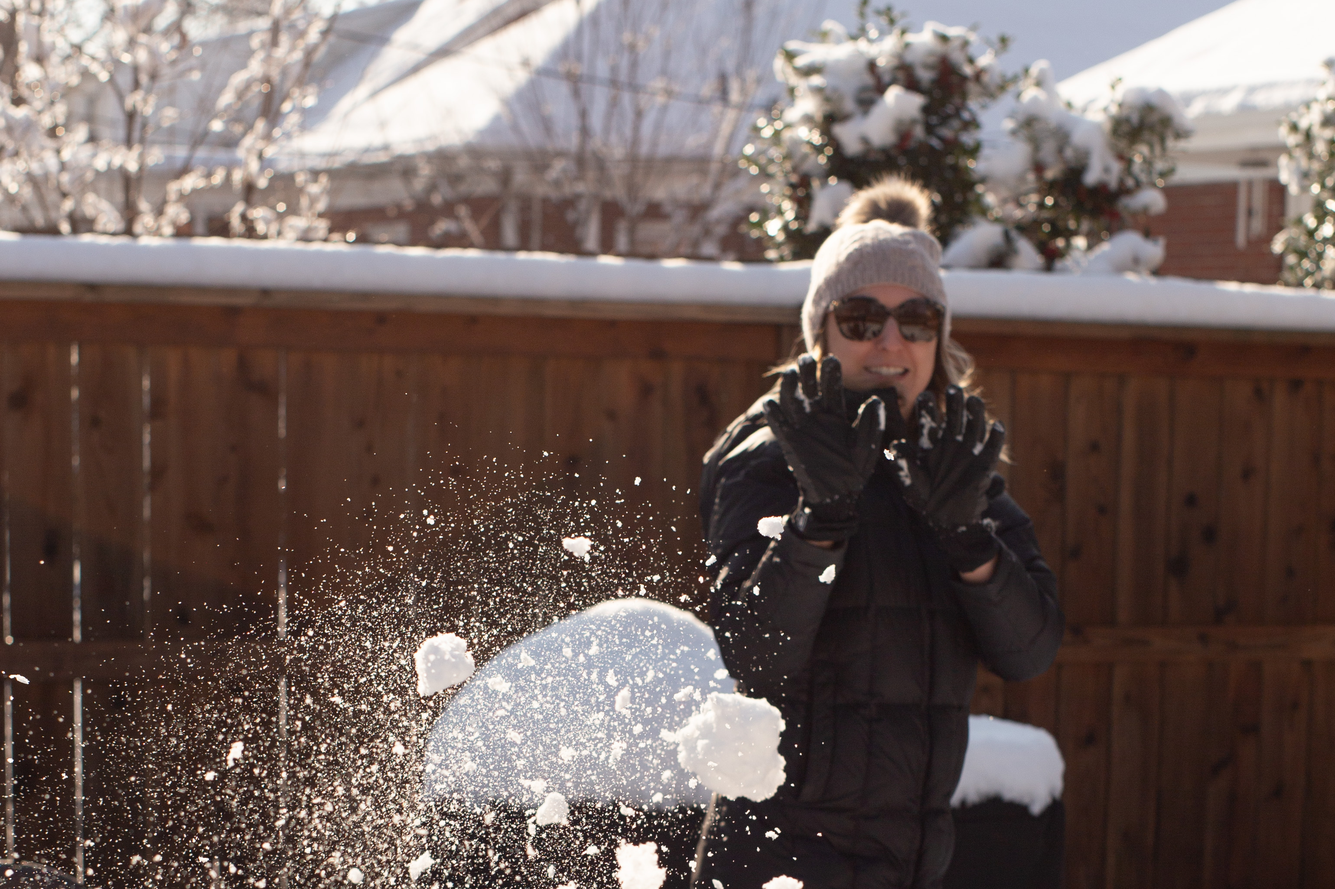
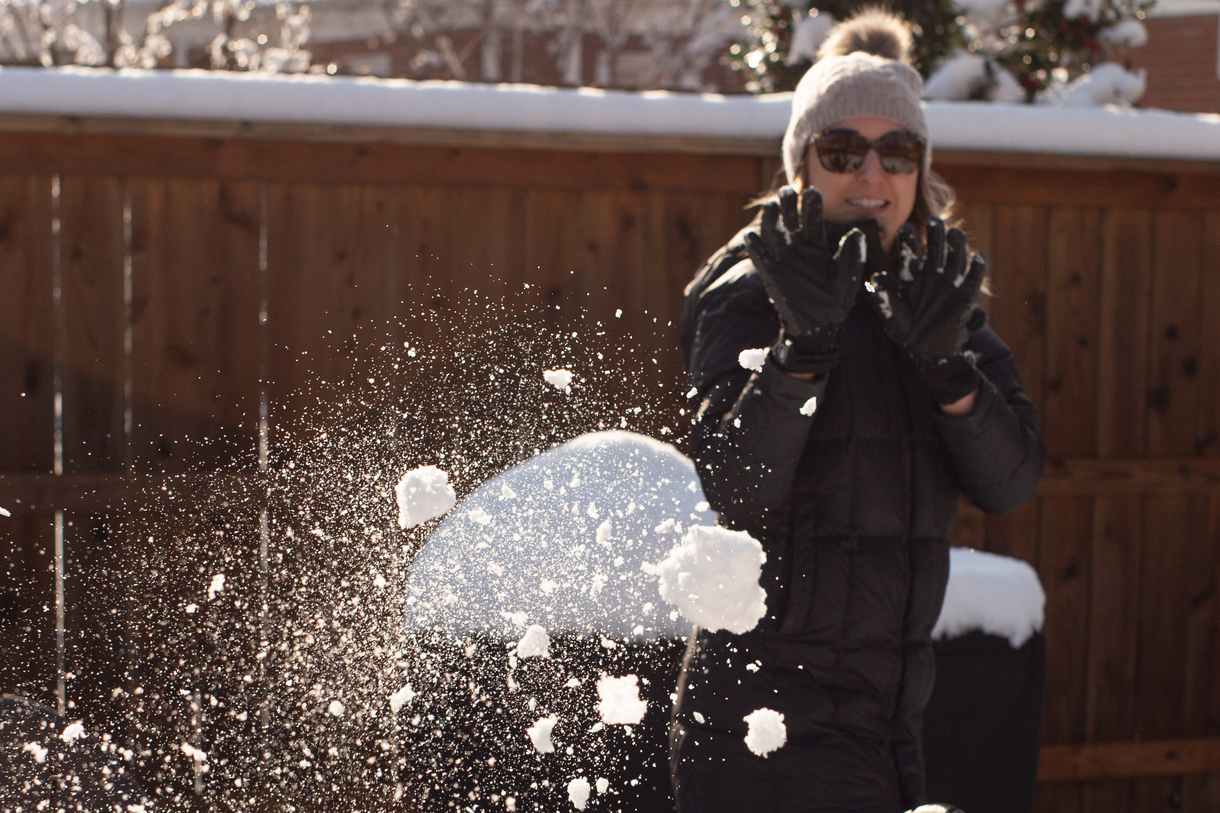
Christmas 2025 revisions.

diff --git a/christmas/2025.md b/christmas/2025.md
@@ -6,7 +6,18 @@ noHeader: true
 ---
 
 <h1 class="script">Merry Christmas</h1>
-<h1 class="script small">From Jordan, Brooke, Grant, Reed and Penny</h1>
+<h1 class="script small">From: Jordan, Brooke, Grant, Reed and Penny</h1>
+
+<div class="flip-card">
+  <div class="flip-card-inner">
+    <div class="flip-card-front">
+    <img class="picture" src="/uploads/2025/IMG_8036.jpg" />
+    </div>
+    <div class="flip-card-back">
+      <h1>selfie group</h1>
+    </div>
+  </div>
+</div>
 
 <div class="flip-card">
   <div class="flip-card-inner">
@@ -14,7 +25,19 @@ noHeader: true
     <img class="picture" src="/uploads/2025/PXL_20251202_144238139.jpg" />
     </div>
     <div class="flip-card-back">
-      <h1>Add your message here!</h1>
+      <h1>We bought a cozy 1930 home in St Matthews near Seneca Park</h1>
+    </div>
+  </div>
+</div>
+
+
+<div class="flip-card">
+  <div class="flip-card-inner">
+    <div class="flip-card-front">
+   <img class="picture" src="/uploads/2025/IMG_4096.jpg" />
+    </div>
+    <div class="flip-card-back">
+      <h1>reed sno</h1>
     </div>
   </div>
 </div>
@@ -25,18 +48,7 @@ noHeader: true
     <img class="picture" src="/uploads/2025/IMG_4087.jpg" />
     </div>
     <div class="flip-card-back">
-      <h1>Add your message here!</h1>
-    </div>
-  </div>
-</div>
-
-<div class="flip-card">
-  <div class="flip-card-inner">
-    <div class="flip-card-front">
-   <img class="picture" src="/uploads/2025/IMG_4095.jpg" />
-    </div>
-    <div class="flip-card-back">
-      <h1>Add your message here!</h1>
+      <h1>grant angel</h1>
     </div>
   </div>
 </div>
@@ -47,7 +59,7 @@ noHeader: true
     <img class="picture" src="/uploads/2025/IMG_4109.jpg" />
     </div>
     <div class="flip-card-back">
-      <h1>Add your message here!</h1>
+      <h1>Penny Lane turned 17 in November and is loving the new house and also, somehow, snowball fights</h1>
     </div>
   </div>
 </div>
@@ -58,7 +70,7 @@ noHeader: true
     <img class="picture" src="/uploads/2025/IMG_4093.jpg" />
     </div>
     <div class="flip-card-back">
-      <h1>Add your message here!</h1>
+      <h1>Mega Snowball</h1>
     </div>
   </div>
 </div>
@@ -66,10 +78,10 @@ noHeader: true
 <div class="flip-card">
   <div class="flip-card-inner">
     <div class="flip-card-front">
-    <img class="picture" src="/uploads/2025/IMG_4091.jpg" />
+    <img class="picture" src="/uploads/2025/IMG_4098.jpg" />
     </div>
     <div class="flip-card-back">
-      <h1>Add your message here!</h1>
+      <h1>Attack!</h1>
     </div>
   </div>
 </div>
@@ -95,6 +107,10 @@ noHeader: true
     z-index: 1;
     position: relative;
     margin-bottom: 20px;
+    width: 100%;
+    height: 100%;
+    object-fit: cover;
+    aspect-ratio: 3 / 2;
  }
  .script {
     z-index: 1;
@@ -103,7 +119,7 @@ noHeader: true
     width: 100%;
     text-align: center;
     color: white;
-    font-size: 32px !important;
+    font-size: 42px !important;
     color: red;
  }
 
@@ -126,6 +142,9 @@ noHeader: true
     .script {
         font-size: 48px !important;
     }
+    .small {
+        font-size: 28px !important;
+    }
     .scripts-small {
         font-size: 32px !important;
     }
@@ -146,10 +165,13 @@ noHeader: true
   perspective: 1000px; /* Remove this if you don't want the 3D effect */
   position: relative;
   z-index: 1;
+  max-width: 800px;
   width: 100%;
   border: none;
   height: 493.328px;
-  margin-bottom: 20px;
+  margin: 0 auto 20px auto;
+  padding: 0 40px;
+  box-sizing: border-box;
 }
 
 .flip-card h1 {
@@ -193,8 +215,8 @@ noHeader: true
 
 /* Style the back side */
 .flip-card-back {
-  background-color: #d2b48c ;
-  color: #006400;
+  background-color: #f8f6f0 ;
+  color: red;
   transform: rotateY(180deg);
   font-family: "Mountains of Christmas";
 }
@@ -202,6 +224,8 @@ noHeader: true
 .flip-card-back h1 {
   position: relative;
   text-align: center;
+  margin-left: 25px;
+  margin-right: 25px;
   top: 25%;
 }
 
